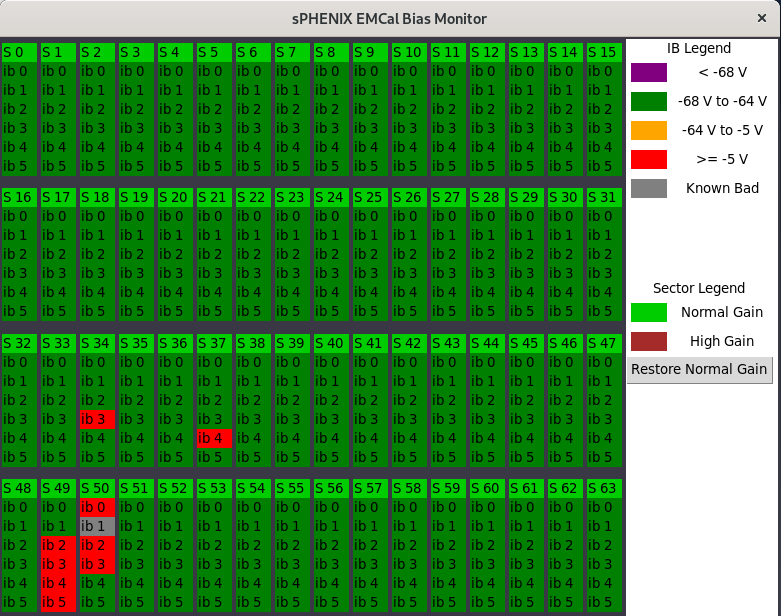
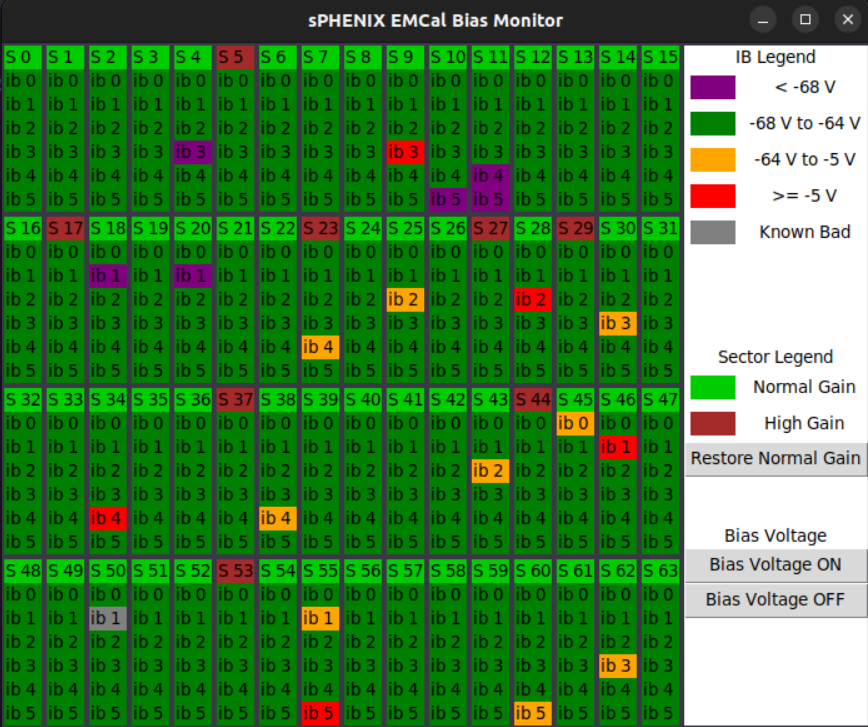
Added Bias Voltage Controls
- 2 more buttons to the gui for turning on/off the bias voltages
- Updated sample image of gui
- Updated README

diff --git a/emcalsector.py b/emcalsector.py
@@ -5,6 +5,7 @@ import threading
 import tkinter as tk
 from tkinter import ttk
 import numpy as np
+import subprocess
 
 # Author: Apurva Narde, UIUC
 
@@ -239,8 +240,8 @@ def update_status(sector_status, ib_status, delay, verbose, busy, gains, nSector
                     bias, gain = get_status(sector)
 
                     # testing
-                    # bias = np.random.randint(-70,0,nIBs)
-                    # gain = np.random.choice(['Norm','High'], nIBs, True, [0.9,0.1])
+                    # bias = np.random.choice([-70,-65,-10,0], nIBs, True, [0.01,0.95,0.02,0.02])
+                    # gain = np.random.choice(['Norm','High'], nIBs, True, [0.99,0.01])
                 except Exception as ex:
                     bias = [None]*nIBs
                     print(f'Error in retrieving bias for sector: {sector}')
@@ -303,6 +304,18 @@ def action(busy, gains, nSectors=64):
         busy[0] = False
     else:
         print('Currently busy, try again shortly.')
+
+# call script to turn bias voltage ON
+def bias_voltage_on():
+    # testing
+    # subprocess.call('./template/on.sh')
+    subprocess.call('/home/phnxrc/BiasControl/onemall.sh')
+
+# call script to turn bias voltage OFF
+def bias_voltage_off():
+    # testing
+    # subprocess.call('./template/off.sh')
+    subprocess.call('/home/phnxrc/BiasControl/offemall.sh')
 
 if __name__ == '__main__':
     delay     = args.delay
@@ -401,6 +414,21 @@ if __name__ == '__main__':
     # create button to reset the gains
     button = ttk.Button(legend, text='Restore Normal Gain', command=lambda: action(busy, gains))
     button.grid(row=len(legend_map)+len(sector_legend_map)+blank_lines+1, column=0, columnspan=2)
+
+    for i in range(2):
+        temp = ttk.Label(legend, text='', background='white')
+        temp.grid(row=len(legend_map)+blank_lines+i+5, column=0, columnspan=2, sticky='NS')
+
+    bias_legend_title = ttk.Label(legend, text='Bias Voltage', background='white')
+    bias_legend_title.grid(row=len(legend_map)+blank_lines+7, column=0, columnspan=2, sticky='NS')
+
+    # create button to turn ON bias voltage
+    button2 = ttk.Button(legend, text='Bias Voltage ON', command=lambda: bias_voltage_on())
+    button2.grid(row=len(legend_map)+len(sector_legend_map)+blank_lines+8, column=0, columnspan=2, sticky='EW')
+
+    # create button to turn ON bias voltage
+    button3 = ttk.Button(legend, text='Bias Voltage OFF', command=lambda: bias_voltage_off())
+    button3.grid(row=len(legend_map)+len(sector_legend_map)+blank_lines+9, column=0, columnspan=2, sticky='EW')
 
     # make the window resizable
     frame.columnconfigure(tuple(range(17)), weight=1)
